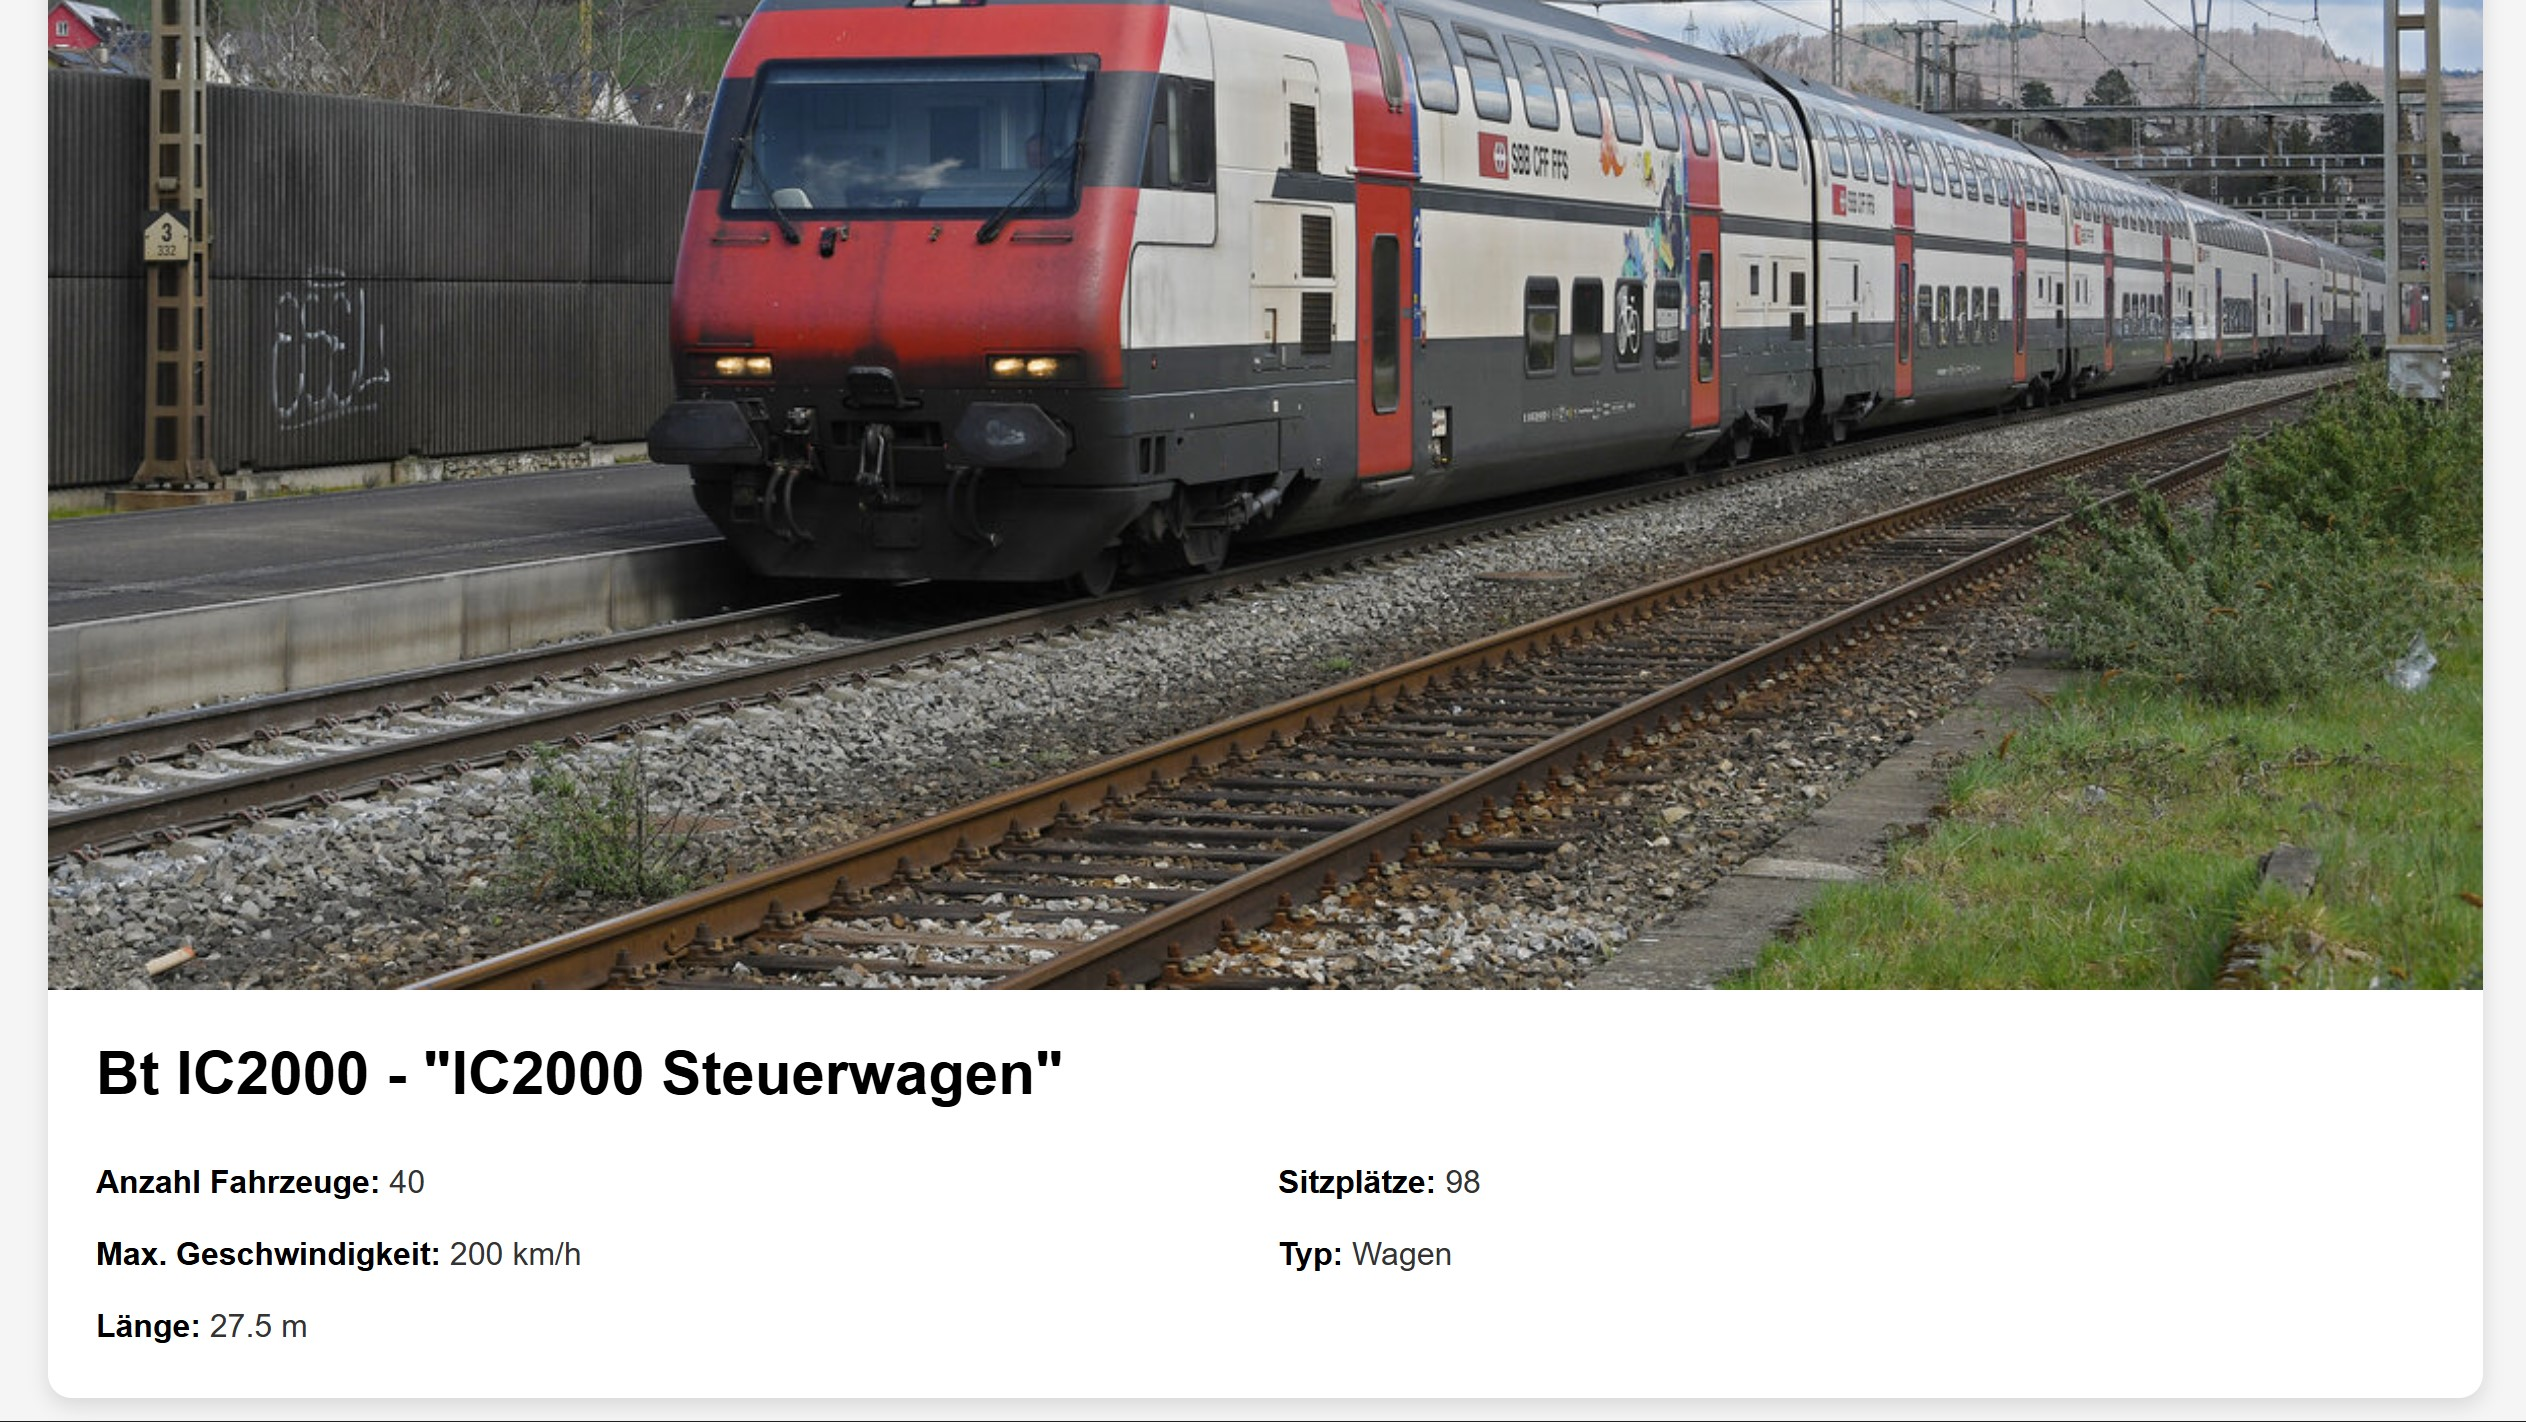
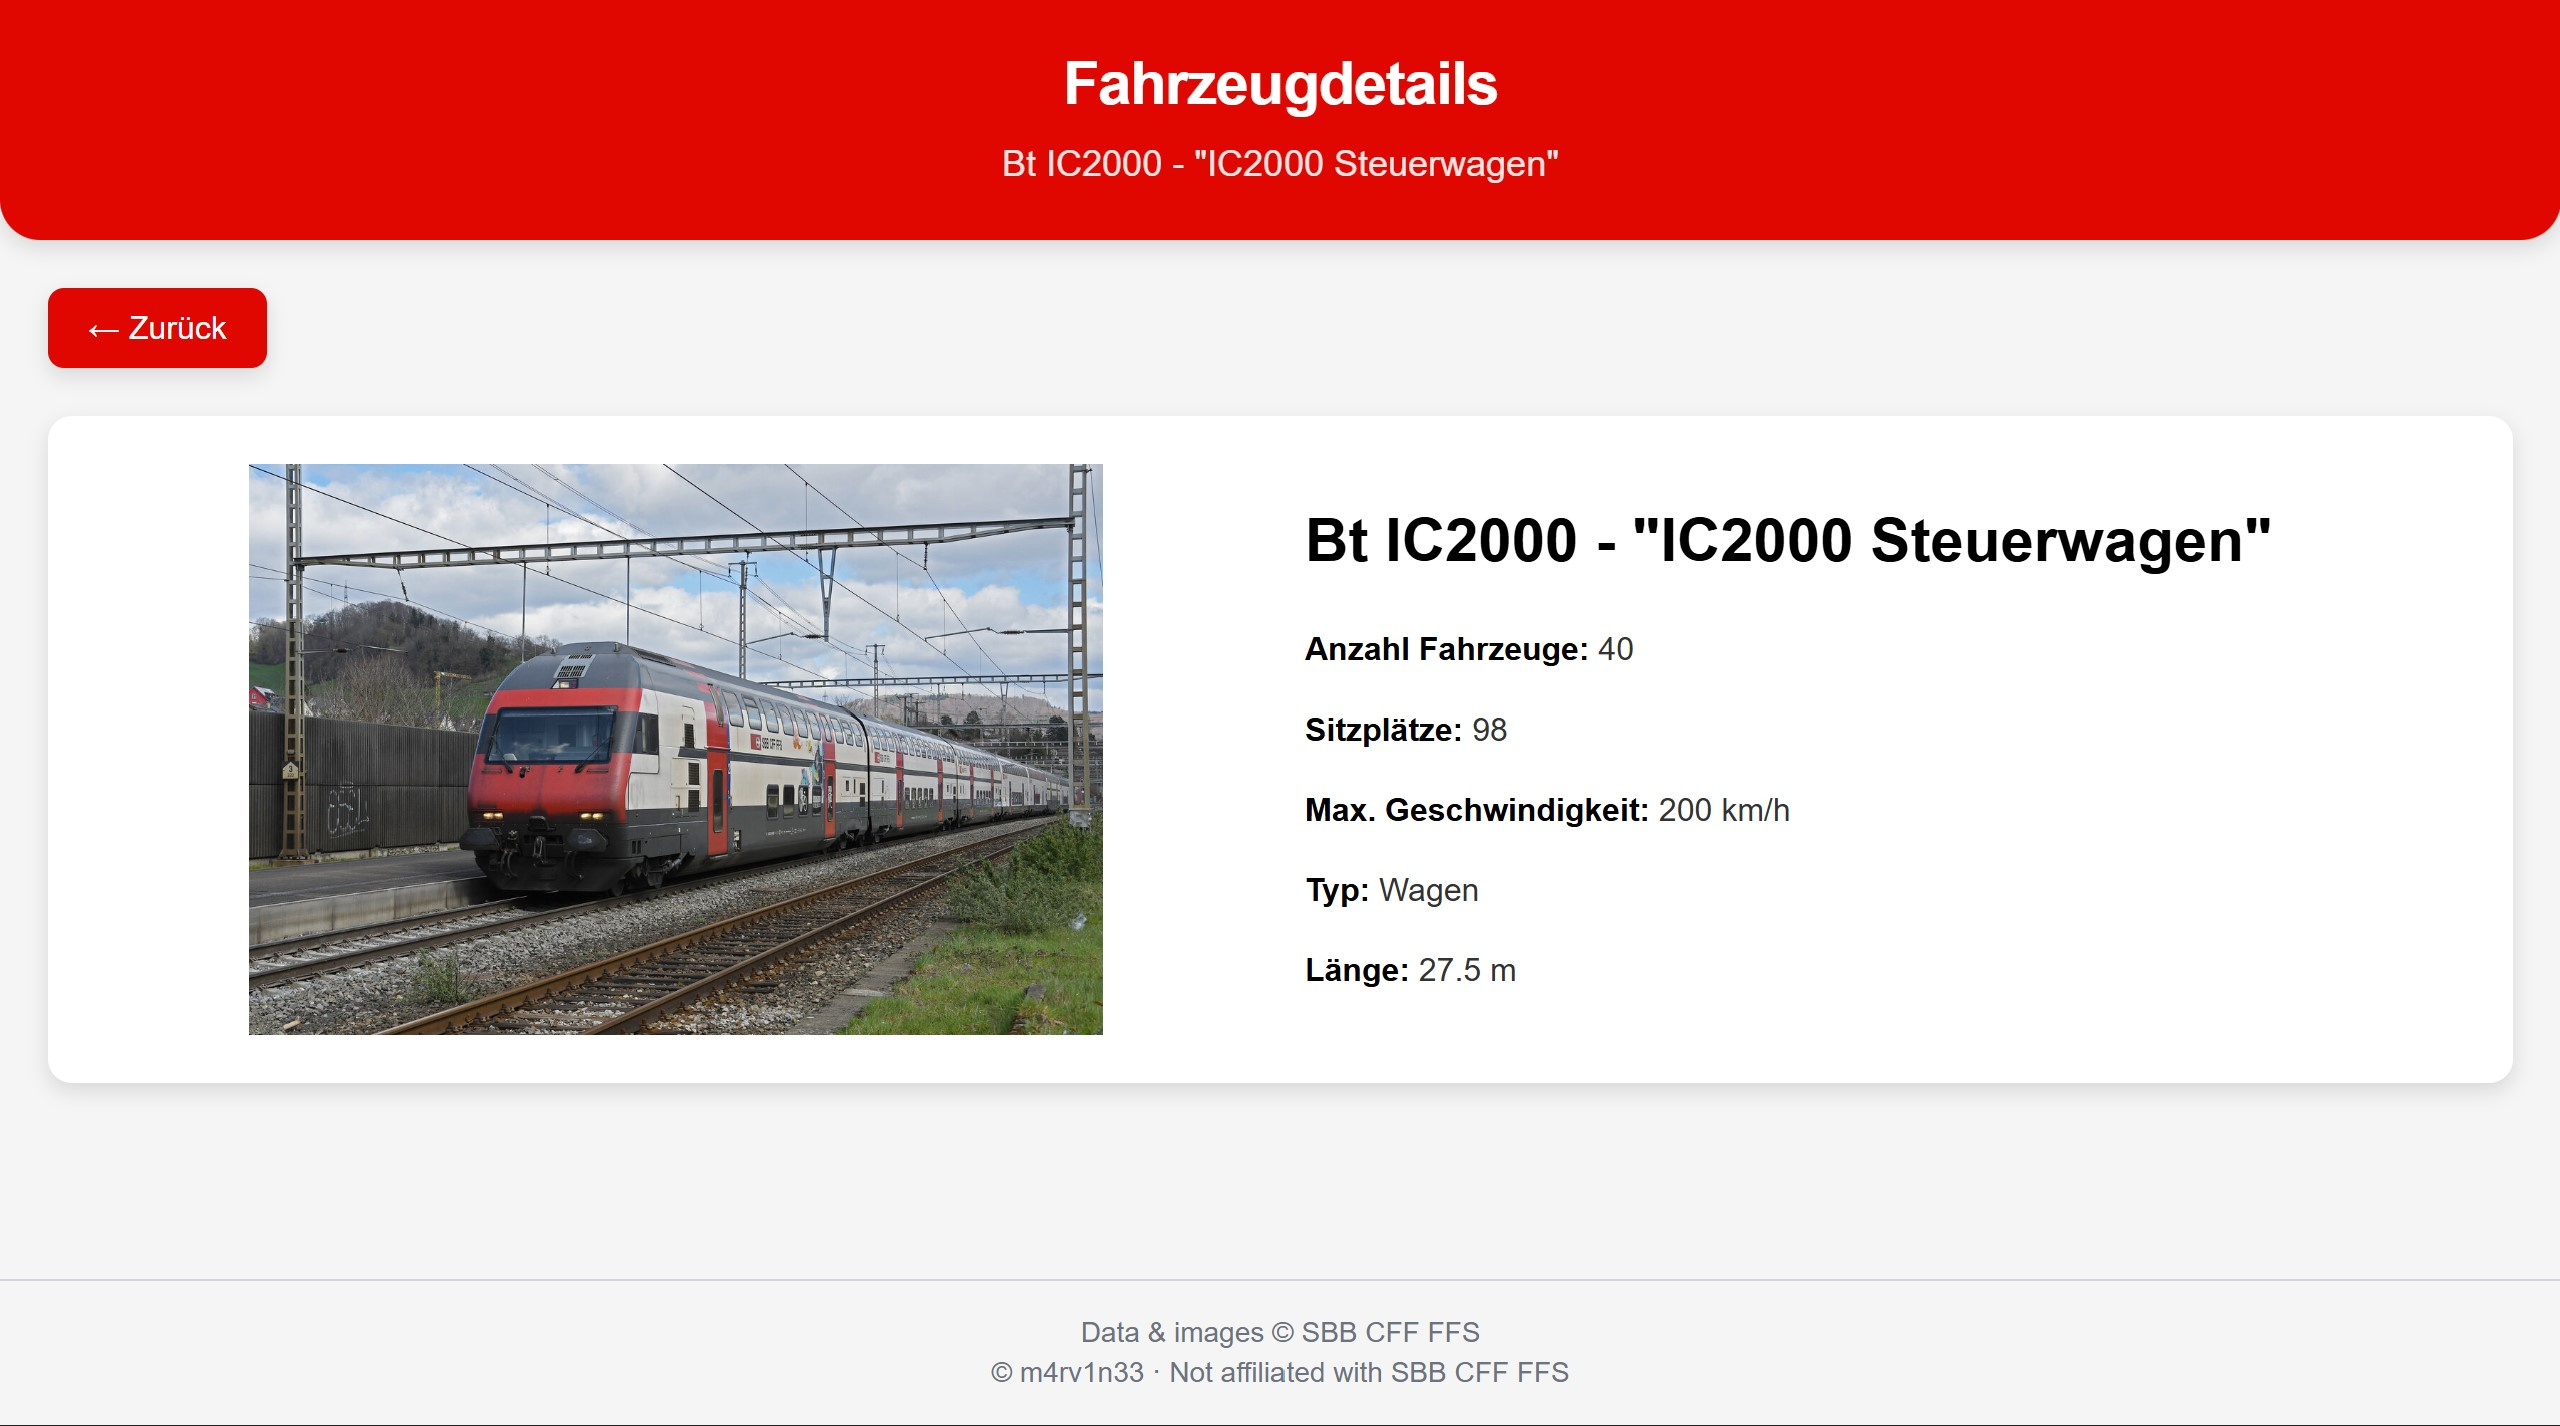
Completely overhauled design
No more scrolling needed, now shows vehicles next to details.
Different font used due to clipping
I locked in tho frfr

diff --git a/src/main/resources/templates/details.html b/src/main/resources/templates/details.html
@@ -5,13 +5,13 @@
   <meta name="viewport" content="width=device-width, initial-scale=1.0">
   <title>Fahrzeugdetails</title>
   <script src="https://cdn.tailwindcss.com"></script>
-  <link href="https://fonts.googleapis.com/css2?family=Clan+OT:wght@400;500;700&display=swap" rel="stylesheet">
+  <link href="https://fonts.googleapis.com/css2?family=Open+Sans:wght@400;500;700&display=swap" rel="stylesheet">
   <script>
     tailwind.config = {
       theme: {
         extend: {
           fontFamily: {
-            sans: ['Clan OT', 'Arial', 'sans-serif'],
+            sans: ['Open Sans', 'Arial', 'sans-serif'],
           },
           colors: {
             sbb: {
@@ -36,31 +36,46 @@
         border-radius: 12px;
       }
     }
+
+    /* Custom styles for image and layout */
+    .vehicle-image {
+      max-height: 40vh;
+      width: auto;
+      object-fit: contain;
+    }
+
+    @media (max-width: 768px) {
+      .details-grid {
+        grid-template-columns: 1fr !important;
+      }
+    }
   </style>
 </head>
-<body class="bg-sbb-light text-sbb-dark font-sans">
+<body class="bg-sbb-light text-sbb-dark font-sans min-h-screen flex flex-col">
+<!-- Header -->
+<header class="bg-sbb-red text-white py-6 rounded-sbb shadow-sbb">
+  <div class="container mx-auto px-6 text-center">
+    <h1 class="text-3xl font-bold mb-2 tracking-tight">Fahrzeugdetails</h1>
+    <p class="text-lg opacity-90"><span th:text="${vehicleType}"></span></p>
+  </div>
+</header>
 
-  <!-- Header -->
-  <header class="bg-sbb-red text-white py-10 rounded-sbb shadow-sbb mb-10">
-    <div class="container mx-auto px-6 text-center">
-      <h1 class="text-4xl font-bold mb-2 tracking-tight">Fahrzeugdetails</h1>
-      <p class="text-lg opacity-90"><span th:text="${vehicleType}"></span></p>
-    </div>
-  </header>
 
-  <!-- Main Content -->
-  <main class="container mx-auto px-6">
-    <!-- Breadcrumb / Back -->
-    <a href="/" class="inline-flex items-center gap-2 bg-sbb-red text-white font-medium py-2 px-5 rounded-lg mb-6 shadow-sbb hover:bg-red-800 transition">
-      ← Zurück
-    </a>
+<main class="container mx-auto px-6 py-6 flex-grow">
+  <a href="/" class="inline-flex items-center gap-2 bg-sbb-red text-white font-medium py-2 px-5 rounded-lg mb-6 shadow-sbb hover:bg-red-800 transition">
+    ← Zurück
+  </a>
 
-    <!-- Vehicle Card -->
-    <div class="bg-white card-rounded shadow-sbb overflow-hidden">
-      <img th:src="${imageUrl}" class="w-full h-auto object-cover" alt="Fahrzeugbild">
-      <div class="p-6">
+  <!-- Vehicle Card -->
+  <div class="bg-white card-rounded shadow-sbb overflow-hidden">
+    <div class="details-grid grid grid-cols-1 md:grid-cols-2 gap-6 p-6">
+      <div class="flex justify-center items-start">
+        <img th:src="${imageUrl}" class="vehicle-image" alt="Fahrzeugbild">
+      </div>
+
+      <div class="flex flex-col justify-center">
         <h2 class="text-3xl font-bold text-black mb-6" th:text="${vehicleType}"></h2>
-        <div class="grid gap-3 sm:grid-cols-2">
+        <div class="grid gap-4">
           <p><strong class="text-black">Anzahl Fahrzeuge:</strong> <span th:text="${count}"></span></p>
           <p><strong class="text-black">Sitzplätze:</strong> <span th:text="${passengerSeats}"></span></p>
           <p><strong class="text-black">Max. Geschwindigkeit:</strong> <span th:text="${maxAllowedSpeed} + ' km/h'"></span></p>
@@ -69,12 +84,12 @@
         </div>
       </div>
     </div>
-  </main>
+  </div>
+</main>
 
- <footer class="mt-16 text-center text-gray-500 text-sm py-6 bg-sbb-light border-t border-gray-300">
-    <p>Data & images &copy; SBB CFF FFS</p>
-    <p>&copy; <a href="https://github.com/m4rv1n33" target="_blank" class="hover:text-sbb-red">m4rv1n33</a> · Not affiliated with SBB CFF FFS</p>
-  </footer>
-
+<footer class="mt-6 text-center text-gray-500 text-sm py-4 bg-sbb-light border-t border-gray-300">
+  <p>Data & images &copy; SBB CFF FFS</p>
+  <p>&copy; <a href="https://github.com/m4rv1n33" target="_blank" class="hover:text-sbb-red">m4rv1n33</a> · Not affiliated with SBB CFF FFS</p>
+</footer>
 </body>
 </html>

diff --git a/src/main/resources/templates/index.html b/src/main/resources/templates/index.html
@@ -6,13 +6,13 @@
   <title>SBB Fahrzeug-Showcase</title>
   <link rel="icon" href="/images/logo.ico" type="image/x-icon">
   <script src="https://cdn.tailwindcss.com"></script>
-  <link href="https://fonts.googleapis.com/css2?family=Clan+OT:wght@400;500;700&display=swap" rel="stylesheet">
+  <link href="https://fonts.googleapis.com/css2?family=Open+Sans:wght@400;500;700&display=swap" rel="stylesheet">
   <script>
     tailwind.config = {
       theme: {
         extend: {
           fontFamily: {
-            sans: ['Clan OT', 'Arial', 'sans-serif'],
+            sans: ['Open Sans', 'Arial', 'sans-serif'],
           },
           colors: {
             sbb: {
